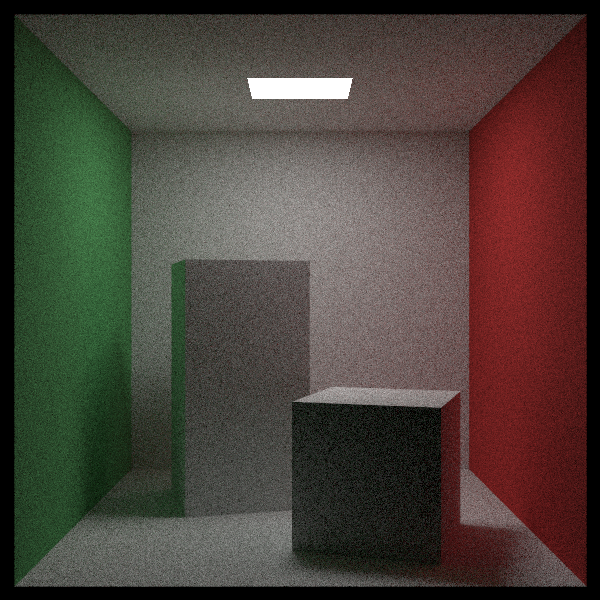
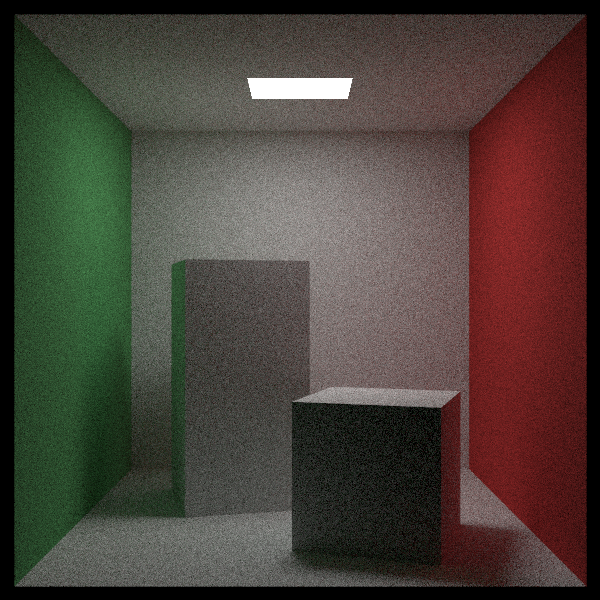
cooked optimization

diff --git a/src/geometry.rs b/src/geometry.rs
@@ -1,3 +1,5 @@
+use std::hint::black_box;
+
 use crate::{
     material::Material,
     primitives::{Interval, Point3, Ray, Vec3},
@@ -97,7 +99,7 @@ impl Quad {
         // compute world-space intersection point (we need it in the HitRecord)
         let intersection = r.at(t);
 
-        Some(HitRecord::new(intersection, &self.mat, t, r, self.normal))
+        Some(HitRecord::new(intersection, &self.mat, t, self.normal))
     }
 }
 
@@ -119,8 +121,9 @@ impl<'a> HitRecord<'a> {
     /// `outward_normal` is assumed to have unit length
     #[must_use]
     #[inline]
-    pub fn new(p: Point3, mat: &'a Material, t: f64, r: &Ray, outward_normal: Vec3) -> Self {
-        let front_face = r.dir.dot(outward_normal) < 0.0;
+    pub fn new(p: Point3, mat: &'a Material, t: f64, outward_normal: Vec3) -> Self {
+        // let front_face = r.dir.dot(outward_normal) < 0.0;
+        let front_face = black_box(true);
         let normal = tern!(front_face, outward_normal, -outward_normal);
 
         Self { p, normal, mat, t }
